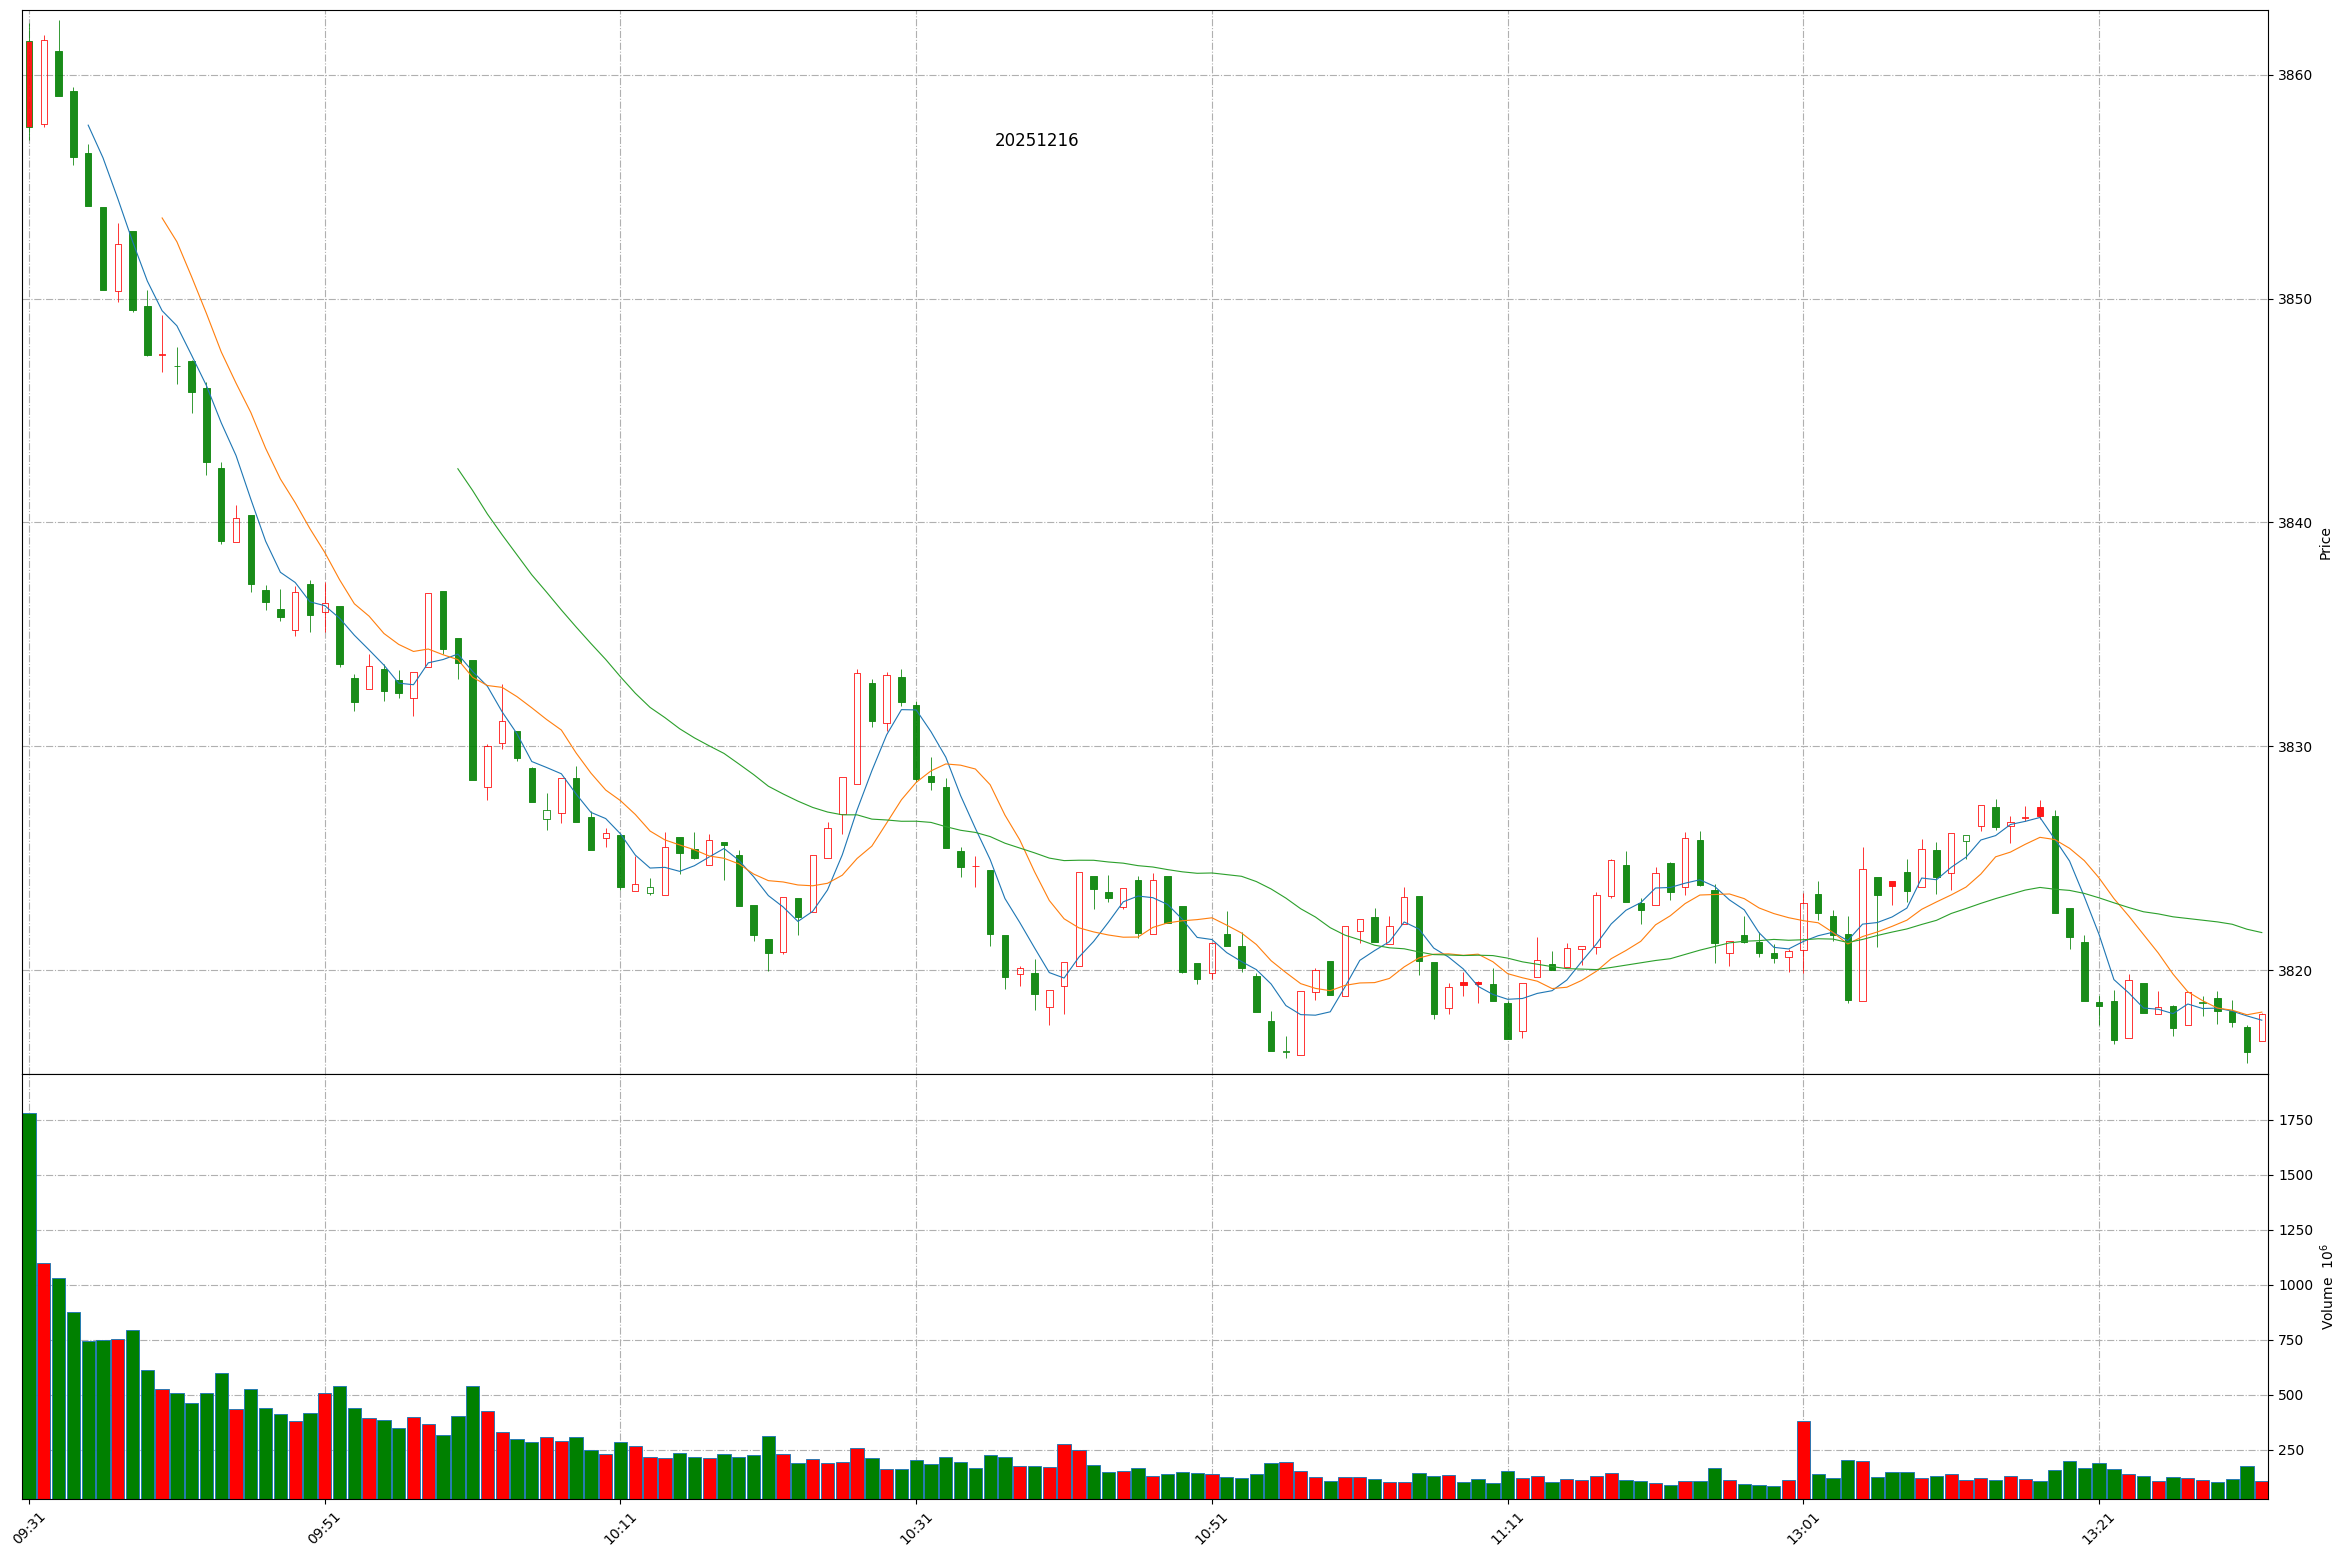
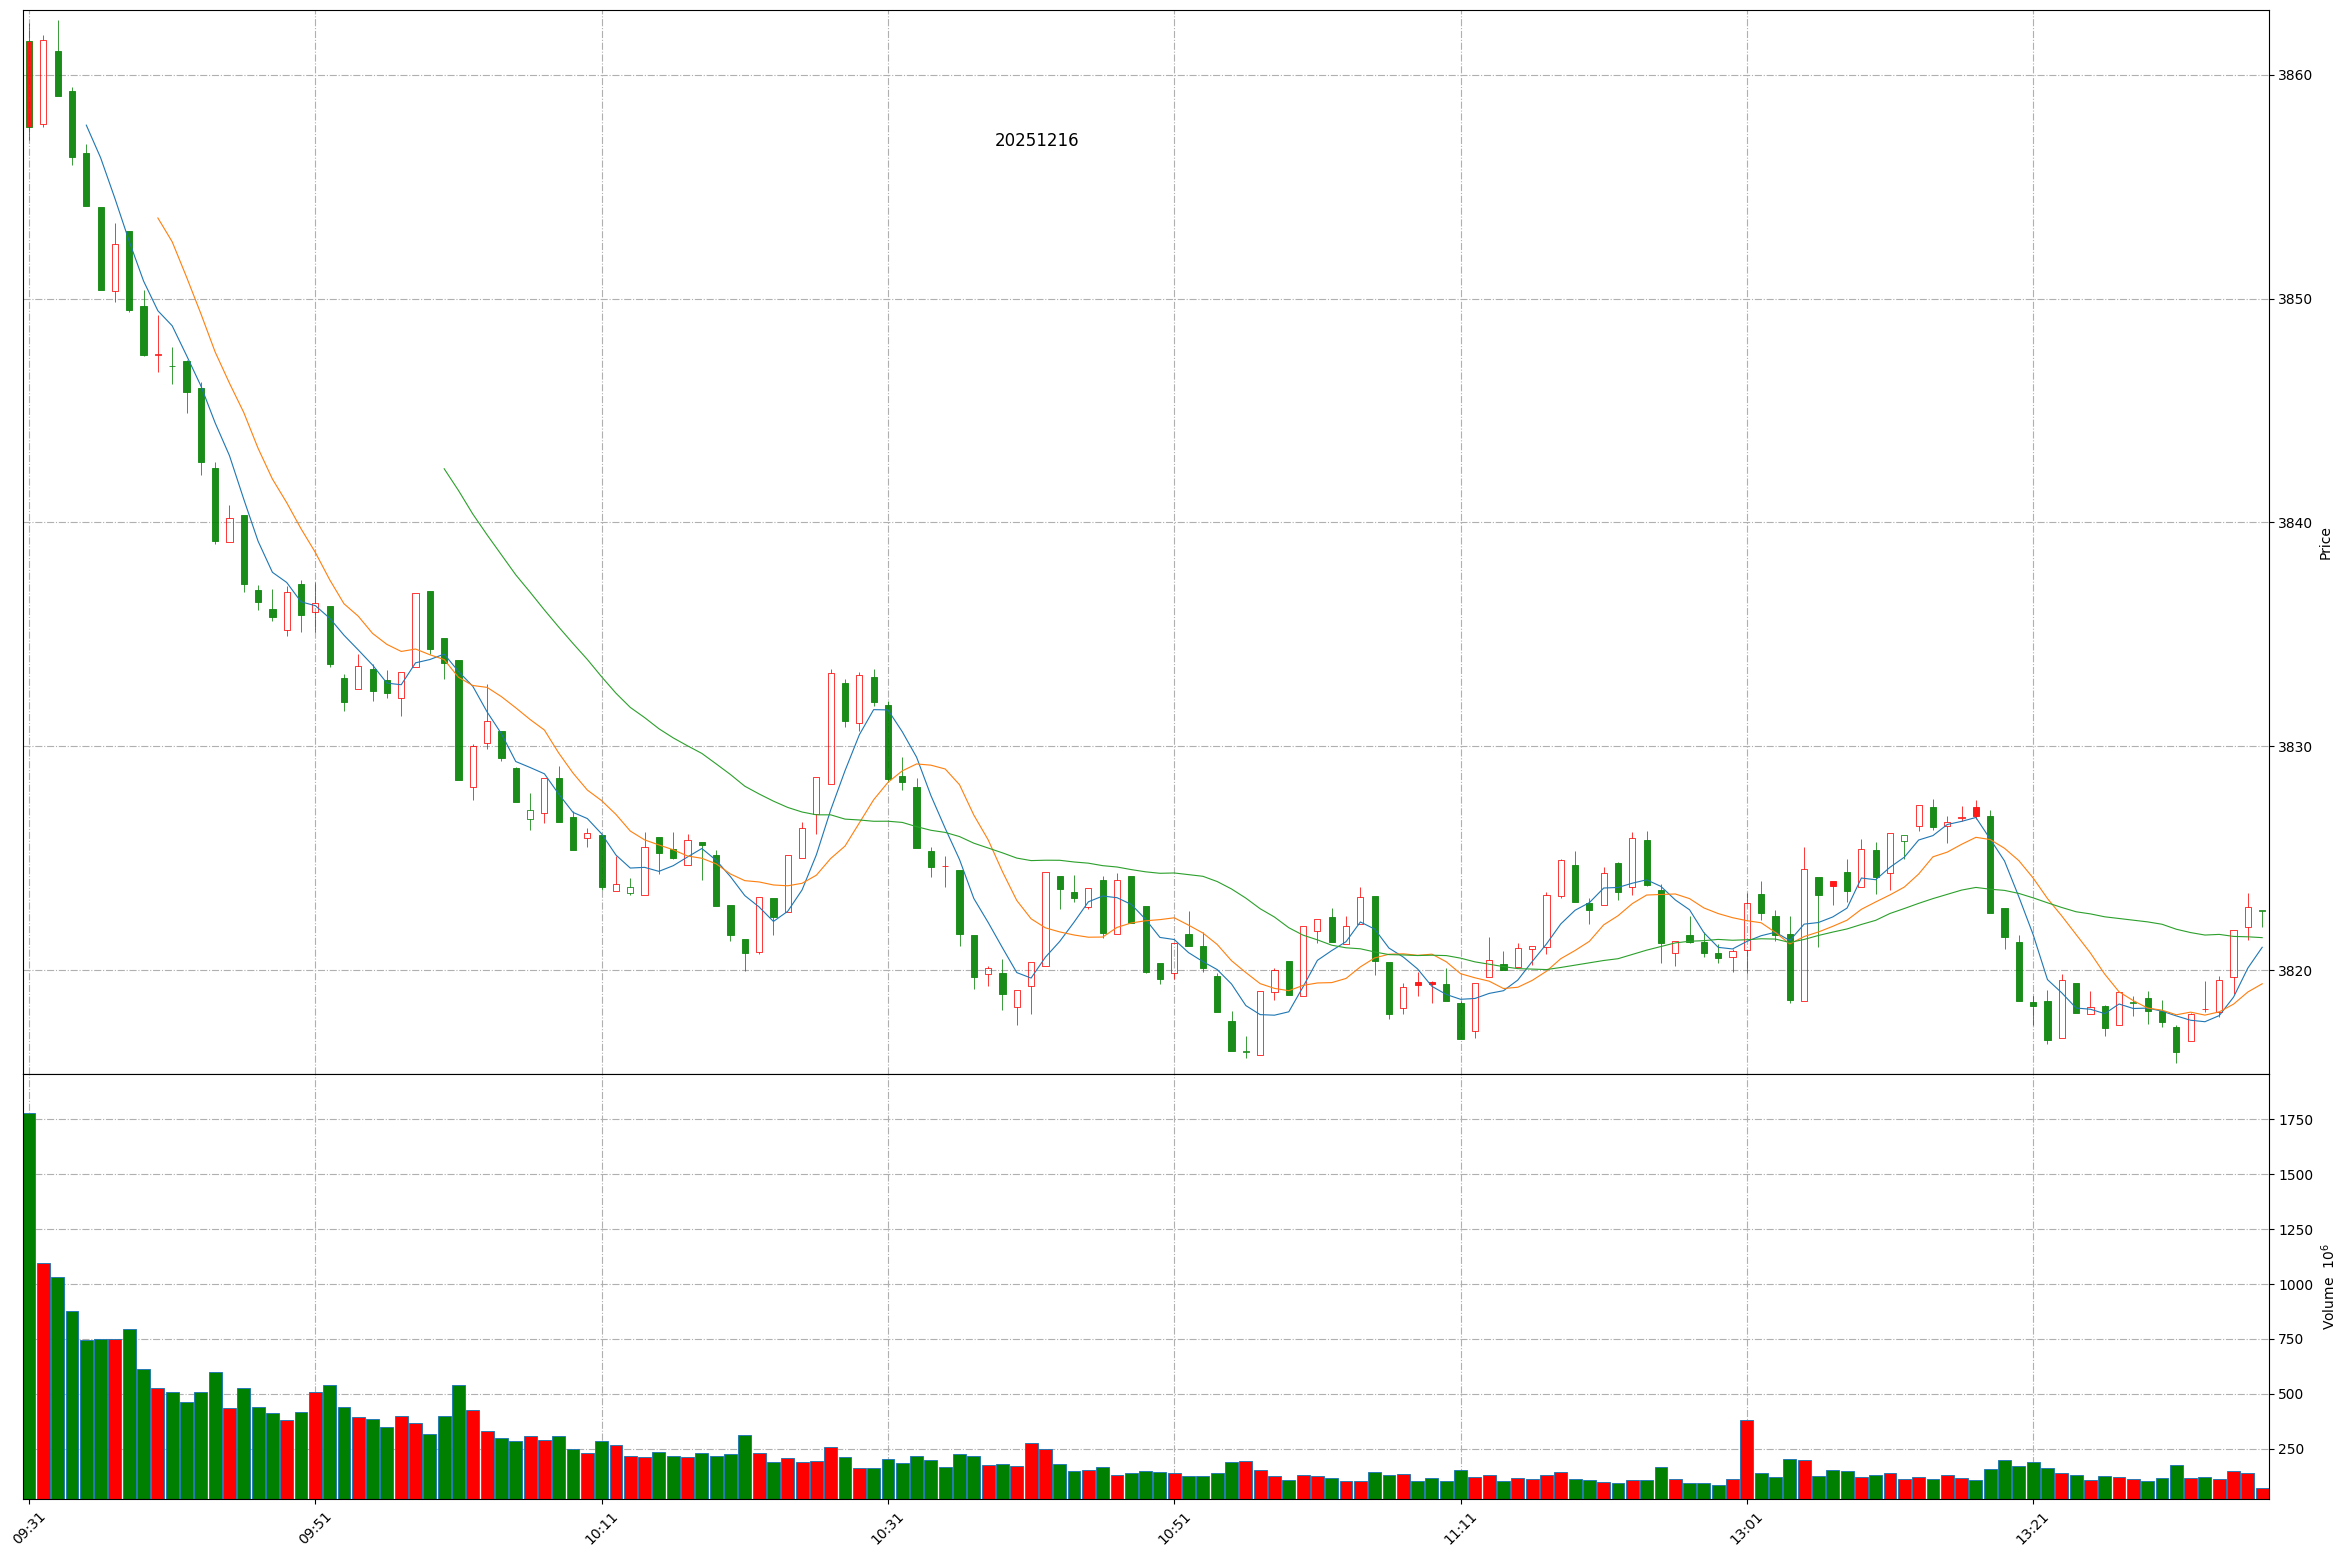
Github action update at 2025-12-16 13:36:43.

diff --git a/README.md b/README.md
@@ -1,11 +1,11 @@
 
 # Daily-A-share-market-quotes 每日 A 股指数（5min 更新）- 20251216
 
-### 上证指数 20251216 13:32
+### 上证指数 20251216 13:36
 ![](./fig/2025/12/20251216-sh000001.png)
 
-### 深证成指 20251216 13:32
+### 深证成指 20251216 13:36
 ![](./fig/2025/12/20251216-sz399001.png)
 
-### 北证50 20251216 13:32
+### 北证50 20251216 13:36
 ![](./fig/2025/12/20251216-bj899050.png)
